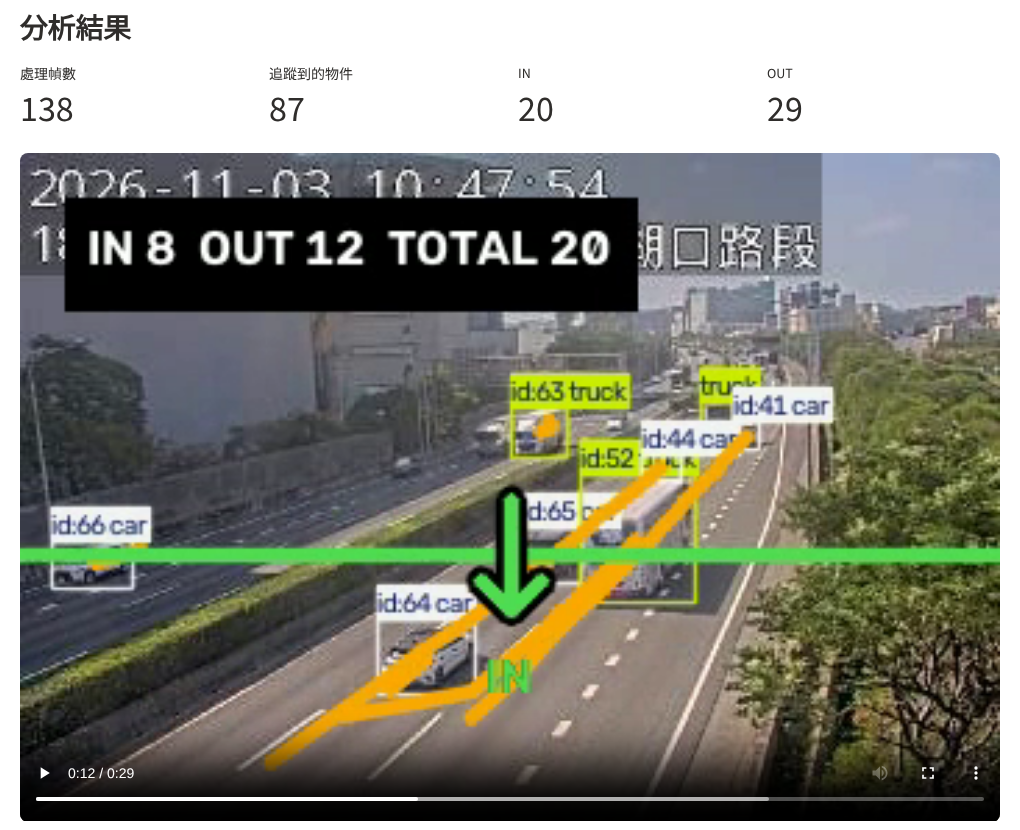
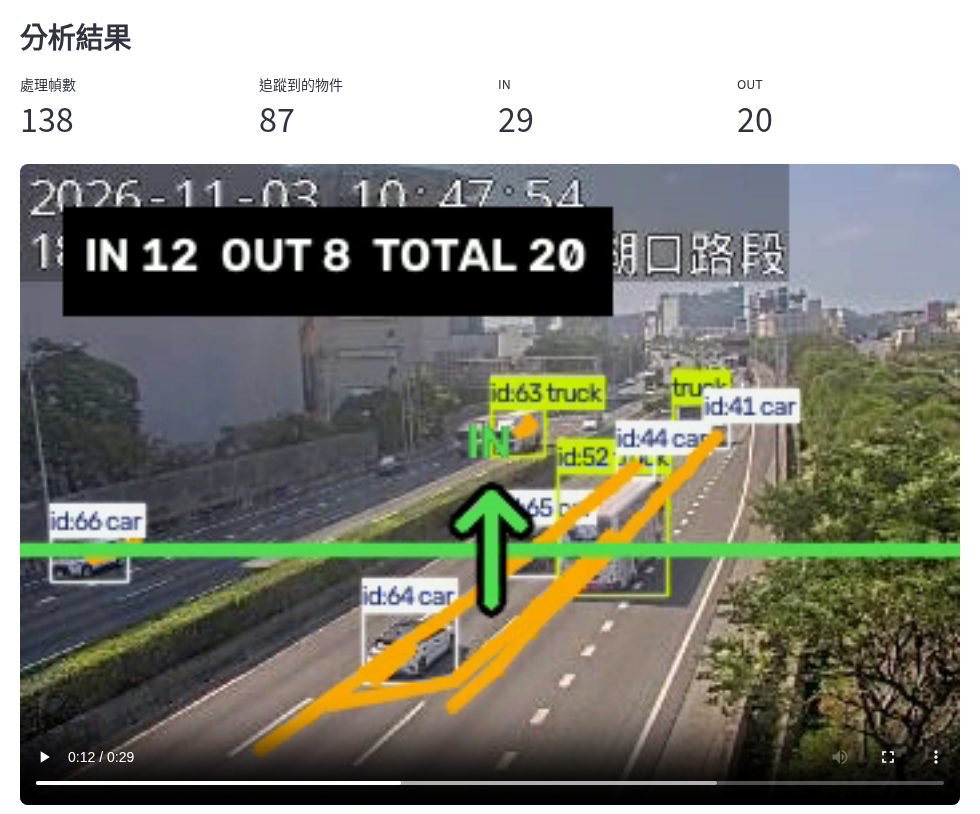
Default the counting line so the IN arrow points up
Start the line on the right and end on the left, so bottom-to-top crossings
count as IN by default. Counting logic is unchanged; swapping the endpoints
still reverses it. Re-record the video page screenshot.

diff --git a/views/video.py b/views/video.py
@@ -51,10 +51,11 @@ mode = st.radio("拍攝方式", list(MODES), format_func=MODES.get, horizontal=T
 
 
 def line_sliders(key: str, y_default: int) -> tuple:
+    # 預設起點在右、終點在左，IN 箭頭朝上（由下往上穿越算 IN）
     c1, c2 = st.columns(2)
-    x1 = c1.slider("起點 X %", 0, 100, 0, key=f"{KEEP}{key}_x1")
+    x1 = c1.slider("起點 X %", 0, 100, 100, key=f"{KEEP}{key}_x1")
     y1 = c1.slider("起點 Y %", 0, 100, y_default, key=f"{KEEP}{key}_y1")
-    x2 = c2.slider("終點 X %", 0, 100, 100, key=f"{KEEP}{key}_x2")
+    x2 = c2.slider("終點 X %", 0, 100, 0, key=f"{KEEP}{key}_x2")
     y2 = c2.slider("終點 Y %", 0, 100, y_default, key=f"{KEEP}{key}_y2")
     return (
         (info.width * x1 / 100, info.height * y1 / 100),
